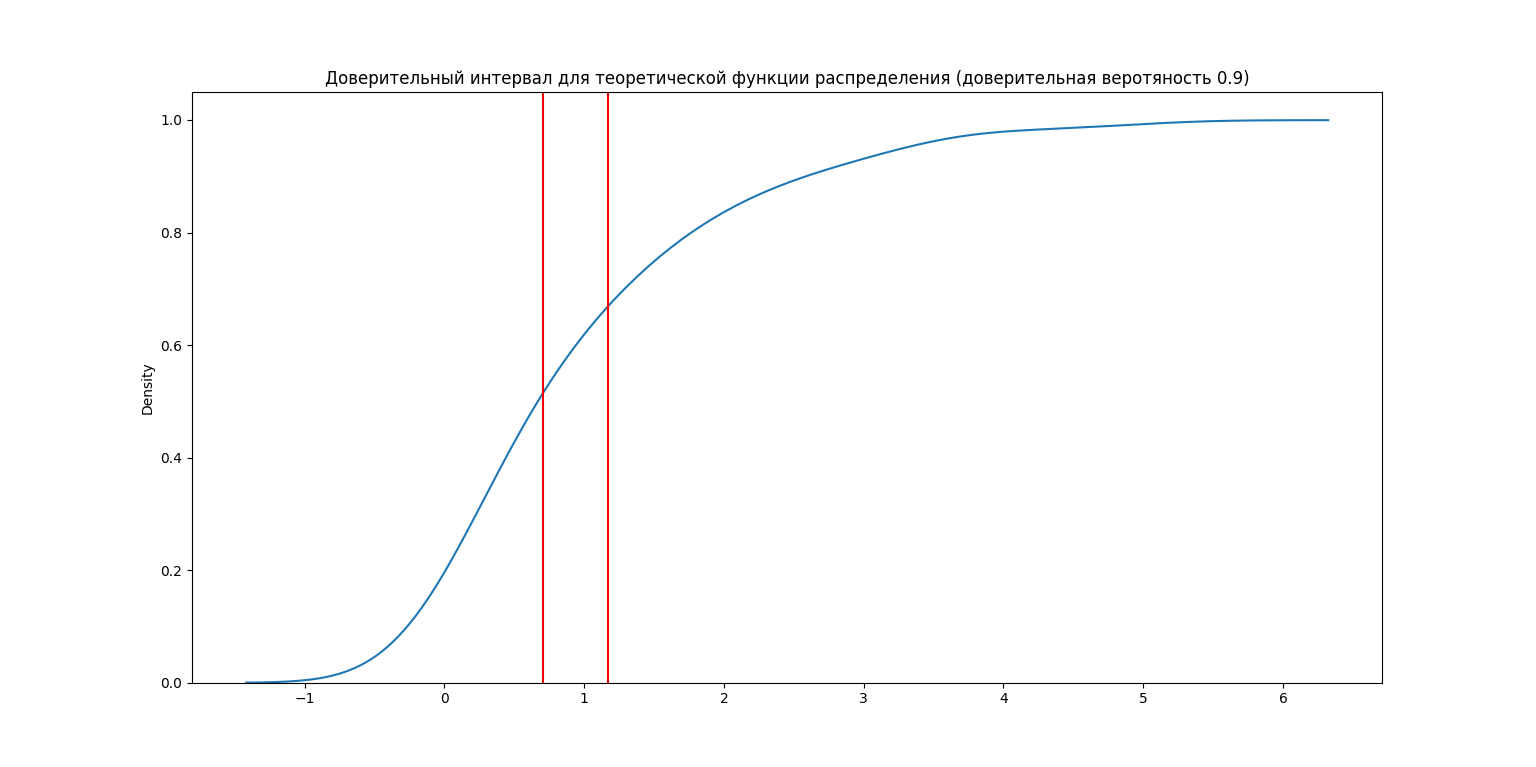
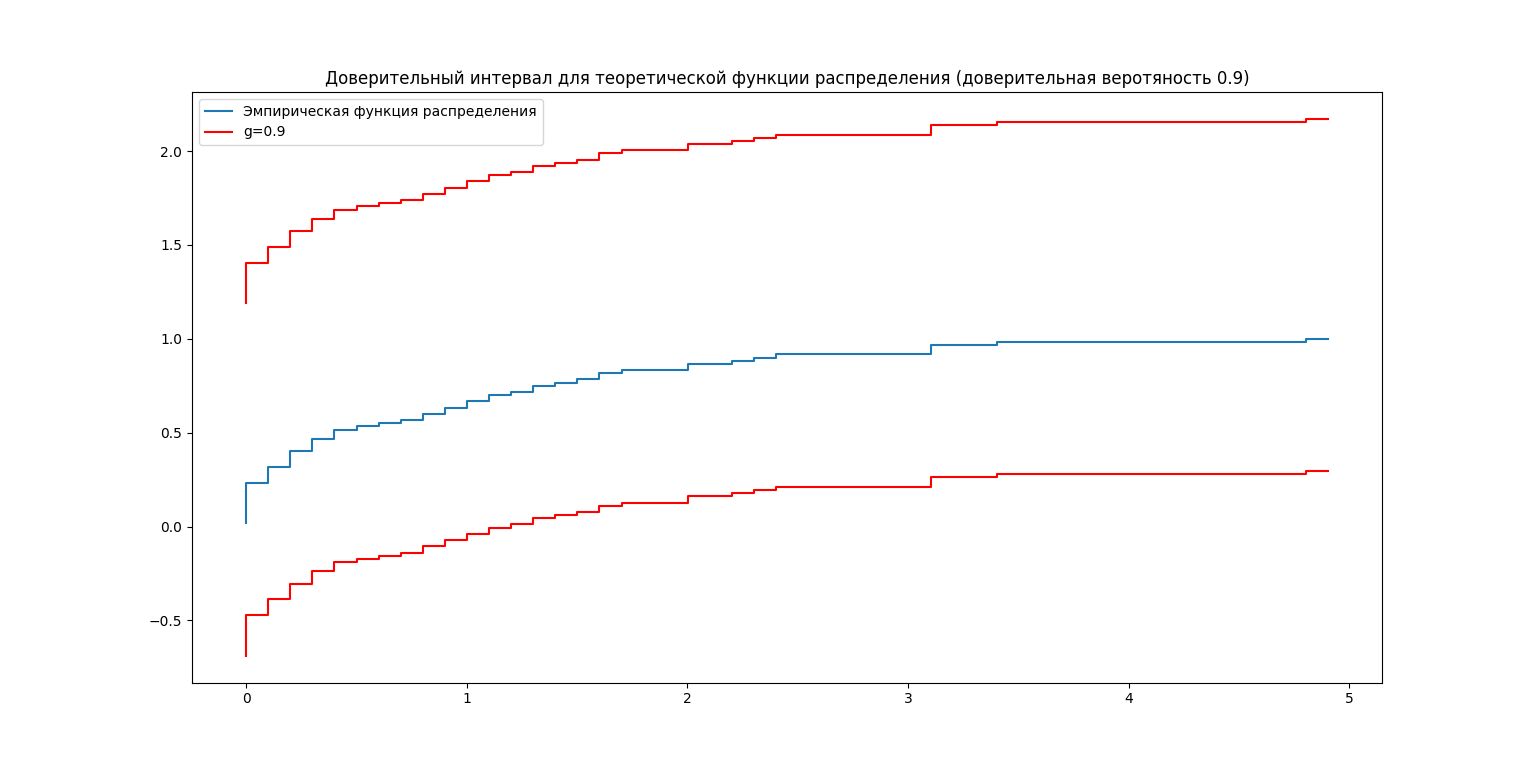
Add files via upload

diff --git a/lab1/plots.py b/lab1/plots.py
@@ -2,18 +2,22 @@ import matplotlib.pyplot as plt
 import seaborn
 import scipy.stats as sp
 import numpy as np
+import statsmodels.api as sm
 
 from sel_characteristics import sample_mean
 
 
 def plot_empirical_cdf(selection):
-    seaborn.kdeplot(selection, cumulative=True)
+    ecdf = sm.distributions.ECDF(selection)
+    x = np.linspace(min(selection), max(selection))
+    y = ecdf(x)
+    plt.step(x, y)
     plt.title('Эмпирическая функция распределения')
     plt.show()
 
 
 def norm_histogram(selection):
-    seaborn.distplot(selection, kde=False, norm_hist=True)
+    plt.hist(selection, bins=10)
     plt.title('Нормированная гистограмма')
     plt.show()
 
@@ -23,6 +27,7 @@ def confidence_interval(selection, a):
     n = len(selection)
 
     d = np.var(selection, ddof=1) * n / (n - 1)
+    print(sp.t.ppf((a + 1) / 2, n - 1))
     step = sp.t.ppf((a + 1) / 2, n - 1) * np.sqrt(d / n)
     interval = [mean - step, mean + step]
 
@@ -30,24 +35,36 @@ def confidence_interval(selection, a):
 
 
 def confidence_interval_plot(selection, interval, a):
-    seaborn.kdeplot(selection, cumulative=True)
-    plt.axvline(interval[0], color='r')
-    plt.axvline(interval[1], color='r')
+    ecdf = sm.distributions.ECDF(selection)
+    x = np.linspace(min(selection), max(selection))
+    y = ecdf(x)
+    plt.step(x, y, label='Эмпирическая функция распределения')
+
+    interval = confidence_interval(selection, a)
+
+    y1 = [val - interval[0] for val in y]
+    y2 = [val + interval[1] for val in y]
+    plt.step(x, y1, color='r', label='g='+str(a))
+    plt.step(x, y2, color='r')
+    plt.legend()
     plt.title('Доверительный интервал для теоретической функции распределения (доверительная веротяность '
               + str(a) + ')')
     plt.show()
 
 
 def plot_teor_empirical(selection, distribution):
-    seaborn.distplot(selection, hist=False, label='Исходная выборка')
     seaborn.distplot(distribution, hist=False, label='Гамма-распределение')
+    seaborn.distplot(selection, hist=True, label='Исходная выборка')
     plt.legend()
     plt.title('Эмпирическая и теоретическая оценка плотности')
     plt.show()
 
 
 def plot_teor_empirical_cdf(selection, distribution):
-    seaborn.kdeplot(selection, cumulative=True, label='Исходная выборка')
+    ecdf = sm.distributions.ECDF(selection)
+    x = np.linspace(min(selection), max(selection))
+    y = ecdf(x)
+    plt.step(x, y, label='Исходная выборка')
     seaborn.kdeplot(distribution, cumulative=True, label='Гамма-распределение')
     plt.legend()
     plt.title('Эмпирическая и теоретическая функция распределения')

diff --git a/lab1/main.py b/lab1/main.py
@@ -53,7 +53,19 @@ if __name__ == '__main__':
     print('Метод максимального правдоподобия')
     print('mu=' + str(m_) + ', sigma=' + str(s_))
 
-    distribution = sp.gamma.rvs(s_, size=len(selection))
+    distribution = sp.gamma.rvs(1.03567, size=len(selection))
     plot_teor_empirical(selection, distribution)
 
     plot_teor_empirical_cdf(selection, distribution)
+
+
+
+
+
+
+
+
+
+
+
+
